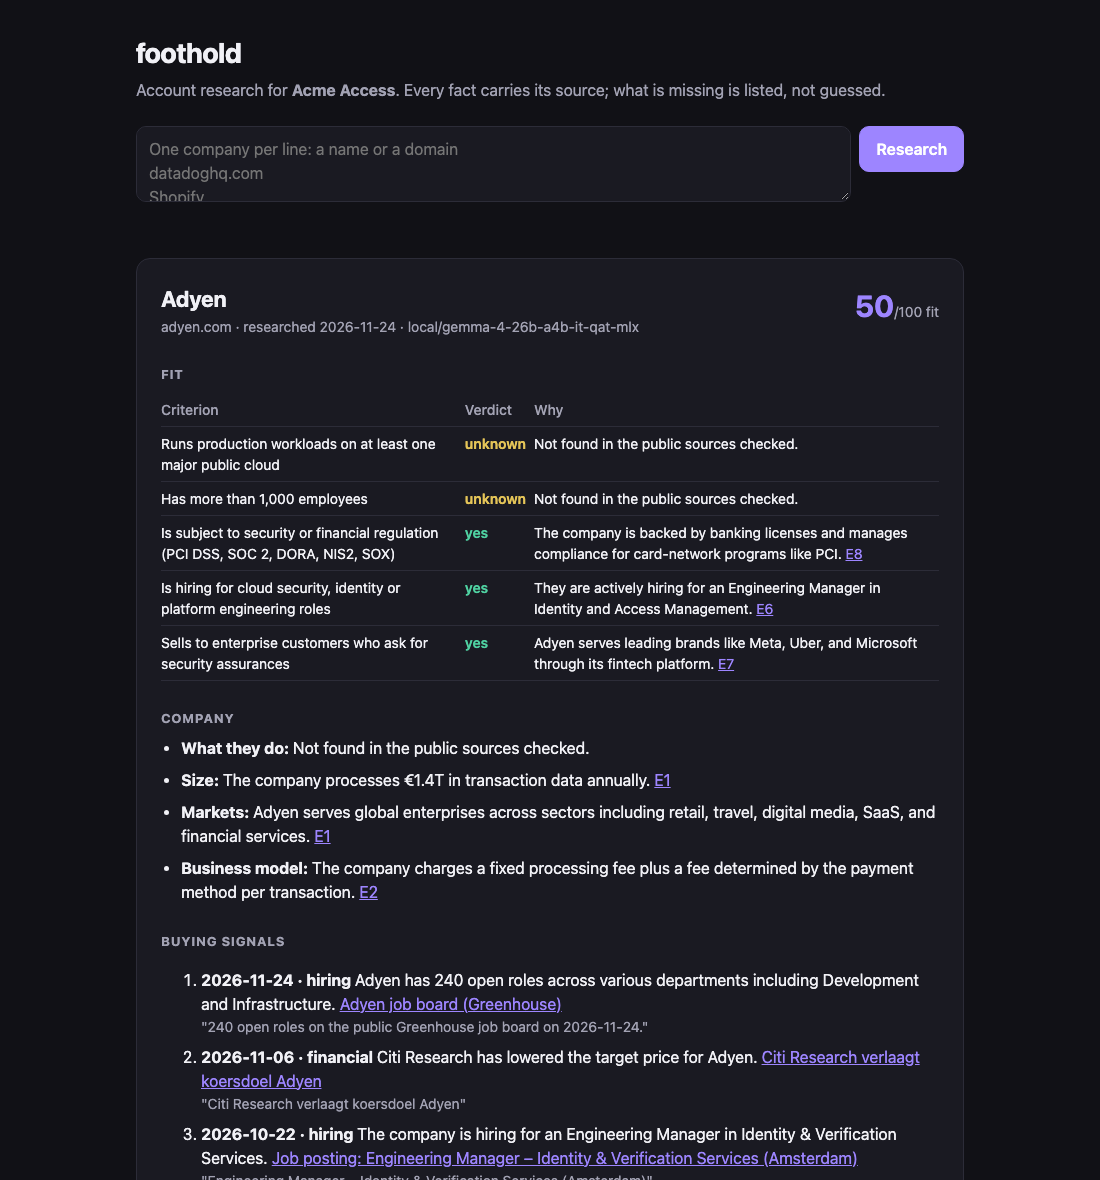
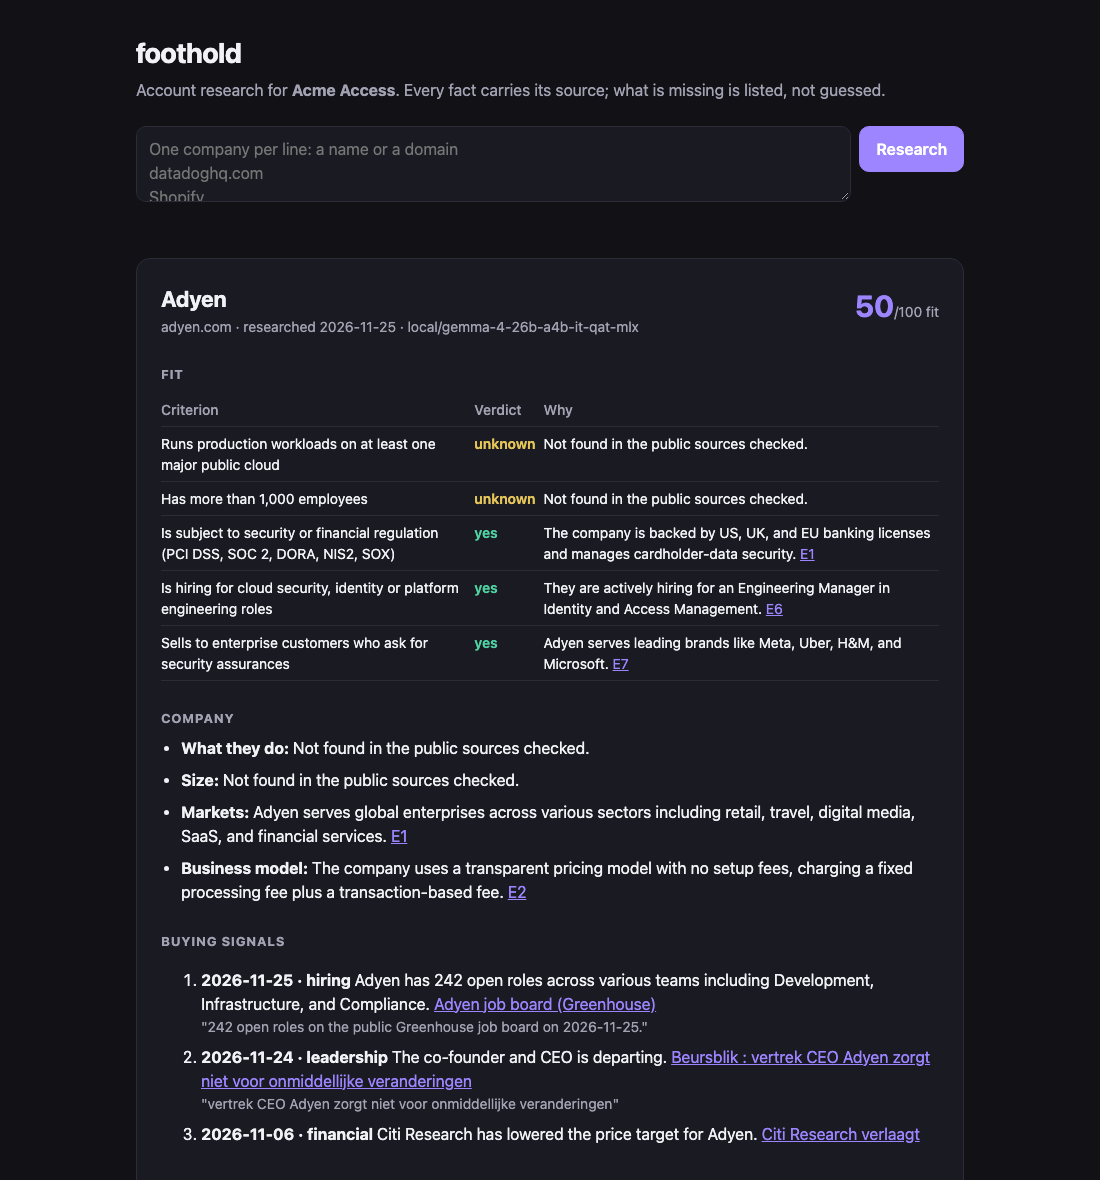
Regenerate example briefs

diff --git a/README.md b/README.md
@@ -154,18 +154,20 @@ through, which is why every verdict shows its quote.
 
 [`examples/briefs`](examples/briefs) holds the output of
 `foothold batch examples/accounts.csv --offer examples/offer.toml` for a fictional
-access-security vendor against three public companies, run on 2026-11-24 with a
-26B-parameter model on a laptop, without the optional keys:
+access-security vendor against three public companies, run on 2026-11-25 with a
+26B-parameter open model (Gemma) on a laptop, without the optional keys:
 
-| Account | Fit | Brief |
-|---|---|---|
-| Datadog | 100/100 | [datadoghq-com.md](examples/briefs/datadoghq-com.md) |
-| Adyen | 50/100 | [adyen-com.md](examples/briefs/adyen-com.md) |
-| Shopify | 30/100 | [shopify-com.md](examples/briefs/shopify-com.md) |
+| Account | Fit | Signals | Brief |
+|---|---|---|---|
+| Datadog | 100/100 | 6 | [datadoghq-com.md](examples/briefs/datadoghq-com.md) |
+| Adyen | 50/100 | 7 | [adyen-com.md](examples/briefs/adyen-com.md) |
+| Shopify | 50/100 | 3 | [shopify-com.md](examples/briefs/shopify-com.md) |
 
-The low scores are the tool working as intended. Shopify has no public board on the
-four supported job platforms and its site does not say where it runs, so three criteria
-stay `unknown` and the gaps say so.
+The middling scores are the tool working as intended. Nothing public says which cloud
+Adyen or Shopify run on, no source gives Adyen's headcount, and the model quoted no
+passage that places Shopify under a regulation, so those criteria stay `unknown` and
+count as not met. A local model also varies from one run to the next: the Gaps section
+of each brief says how many of its statements failed the quote check.
 
 ## Limits
 
